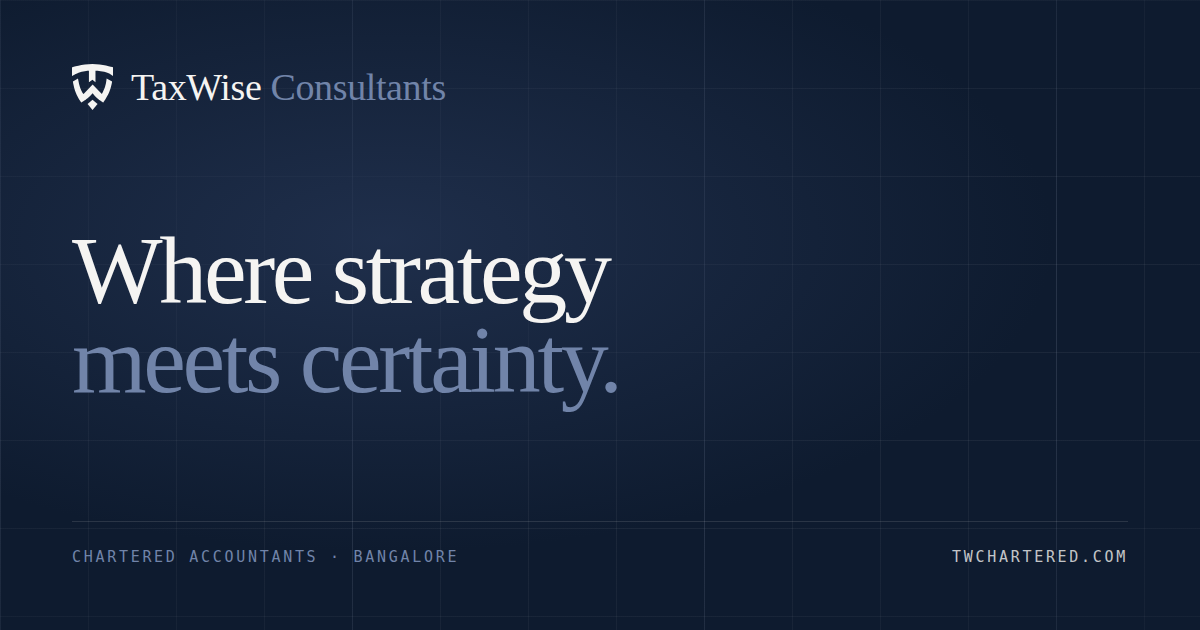
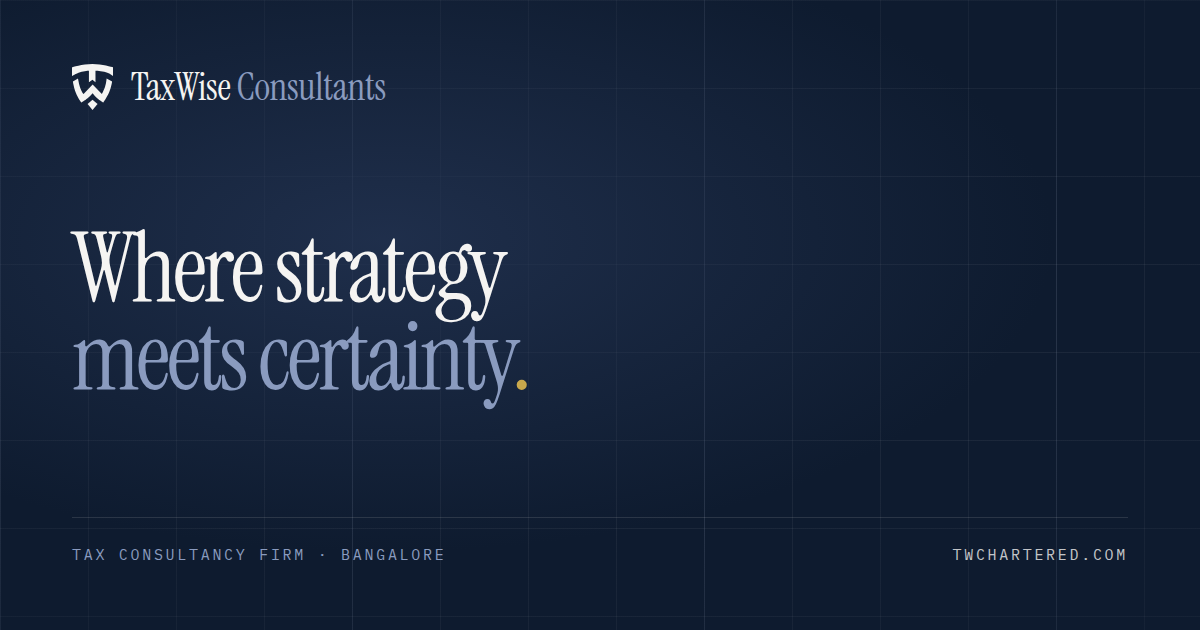
The firm is a tax consultancy firm, not chartered accountants
Every firm-level use of 'Chartered Accountants' is gone: the descriptor, the hero eyebrow and standfirst, the page title, the metadata description and keywords, the About body, the structured-data description, the footer line, the README and the package description. The About credentials row 'Institute: ICAI member firm' - a firm-level registration claim - is replaced with 'Practice: Tax consultancy'. The 'Why' item that said engagements are run by a chartered accountant now says a partner.

The Open Graph card had the old descriptor baked into its pixels; regenerated from the live build so the fonts are the real ones, now reading Tax Consultancy Firm - Bangalore.

Deliberately kept, pending the firm's confirmation: the partners' personal credentials in the team section (Chartered Accountant, Associate Chartered Accountant - statements about individuals, reproduced from the firm's own team page) and the audit service's references to ICAI Standards on Auditing, which describe the standards, not the firm.

Claude-Session: https://claude.ai/code/session_01RkkTAcxDs8aszCiCBiomRf

diff --git a/src/lib/content.ts b/src/lib/content.ts
@@ -13,7 +13,7 @@
 export const firm = {
   name: "TaxWise Consultants",
   legalName: "TaxWise Consultants",
-  descriptor: "Chartered Accountants",
+  descriptor: "Tax Consultancy Firm",
   constitution: "Partnership",
   city: "Bangalore",
   founded: "2015",
@@ -70,11 +70,11 @@ export function displayPhone(e164: string) {
 }
 
 export const hero = {
-  eyebrow: "Chartered Accountants · Bangalore",
+  eyebrow: "Tax Consultancy Firm · Bangalore",
   headlineLead: "Where strategy",
   headlineEmphasis: "meets certainty.",
   standfirst:
-    "TaxWise Consultants is a chartered accountancy practice in Bangalore. We handle audit, tax and compliance for founders, family offices and companies that cannot afford to get it wrong.",
+    "TaxWise Consultants is a tax consultancy firm in Bangalore. We handle tax, accounting and compliance for founders, family offices and companies that cannot afford to get it wrong.",
   primaryCta: "Book a consultation",
   secondaryCta: "Explore services",
 } as const;
@@ -94,7 +94,7 @@ export const why = [
   {
     figure: "1",
     unit: "partner on every file",
-    body: "Your engagement is run by a chartered accountant who knows it, from the first call to the final filing. Nothing is passed down to an associate you have never met.",
+    body: "Your engagement is run by a partner who knows it, from the first call to the final filing. Nothing is passed down to an associate you have never met.",
   },
   {
     figure: "8",
@@ -181,12 +181,12 @@ export const about = {
   label: "The firm",
   headline: "A practice built on being right the first time.",
   body: [
-    `${firm.name} is a chartered accountancy practice in ${firm.city}, run as a partnership. We have advised more than five hundred individuals and businesses over the past decade.`,
+    `${firm.name} is a tax consultancy firm in ${firm.city}, run as a partnership. We have advised more than five hundred individuals and businesses over the past decade.`,
     "We are deliberately small. Every engagement is handled by a partner who knows your file, so you are never explaining your own business back to a new associate.",
     "The work is unglamorous and exact: a return that withstands scrutiny, a set of books that closes on time, a structure that still makes sense three years from now. That is what we are for.",
   ],
   credentials: [
-    { label: "Institute", value: "ICAI member firm" },
+    { label: "Practice", value: "Tax consultancy" },
     { label: "Practice since", value: "2015" },
     { label: "Office", value: "RMV Extension, Bangalore" },
     { label: "Constitution", value: "Partnership firm" },

diff --git a/src/app/layout.tsx b/src/app/layout.tsx
@@ -28,9 +28,9 @@ const plexMono = IBM_Plex_Mono({
   variable: "--font-plex-mono",
 });
 
-const title = `${firm.name} — Chartered Accountants, ${firm.city}`;
+const title = `${firm.name} — ${firm.descriptor}, ${firm.city}`;
 const description =
-  "A partnership of chartered accountants in Bangalore handling audit, taxation, GST and compliance for founders, family offices and companies.";
+  "A tax consultancy partnership in Bangalore handling taxation, GST, accounting and compliance for founders, family offices and companies.";
 
 export const metadata: Metadata = {
   metadataBase: new URL(firm.url),
@@ -40,7 +40,7 @@ export const metadata: Metadata = {
   },
   description,
   keywords: [
-    "chartered accountant Bangalore",
+    "tax consultancy firm Bangalore",
     "tax consultant Bangalore",
     "GST filing Bangalore",
     "statutory audit",

diff --git a/src/lib/jsonld.ts b/src/lib/jsonld.ts
@@ -4,7 +4,7 @@ import { team } from "./team";
 
 /**
  * Structured data for the practice. AccountingService is the most specific
- * schema.org type that fits a chartered accountancy firm.
+ * schema.org type that fits a tax and accounting practice.
  */
 export function organizationJsonLd() {
   return {
@@ -14,7 +14,7 @@ export function organizationJsonLd() {
     name: firm.name,
     legalName: firm.legalName,
     description:
-      "Chartered accountancy practice in Bangalore providing audit, taxation, GST, accounting, business advisory, ROC compliance and startup advisory services.",
+      "Tax consultancy firm in Bangalore providing taxation, GST, accounting, business advisory, ROC compliance and startup advisory services.",
     url: firm.url,
     email: firm.email,
     telephone: firm.phone,

diff --git a/README.md b/README.md
@@ -1,7 +1,7 @@
 # TaxWise Consultants
 
-Marketing site for TaxWise Consultants, a chartered accountancy practice in
-Bangalore, run as a partnership of four.
+Marketing site for TaxWise Consultants, a tax consultancy firm in Bangalore,
+run as a partnership of four.
 
 **The site carries office contact details only** — the office line and the
 office email, no personal numbers or addresses. `src/lib/content.ts` has no
@@ -264,7 +264,7 @@ qualify and `paper-64` is used instead.
 
 ## Before launch
 
-**The professional content needs a chartered accountant's sign-off.** The
+**The professional content needs a qualified professional's sign-off.** The
 service pages and the calendar name specific sections, forms, thresholds and
 dates — section 44AB thresholds, GSTR filing days, AOC-4 and MGT-7 windows,
 section 56(2)(viib), FC-GPR and FLA timing. These are the standard positions,
